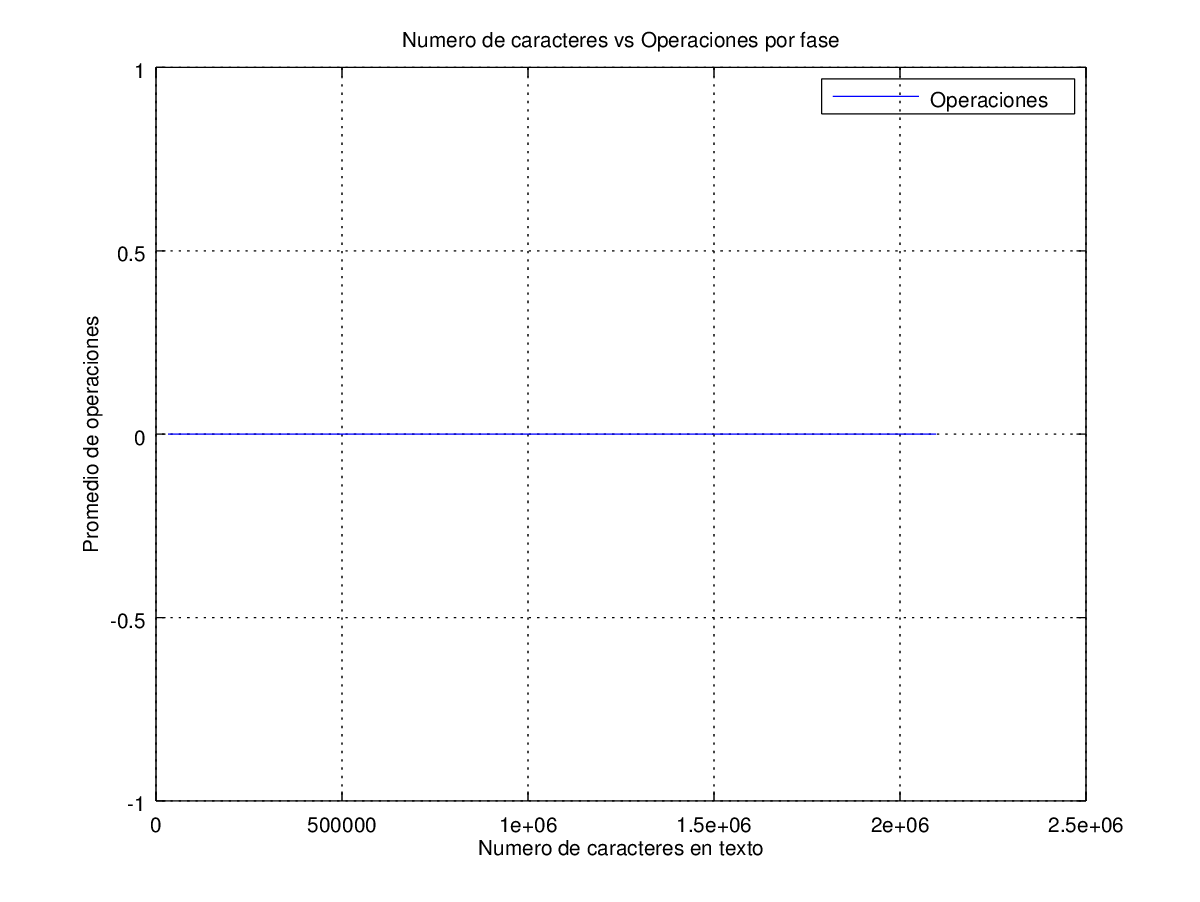
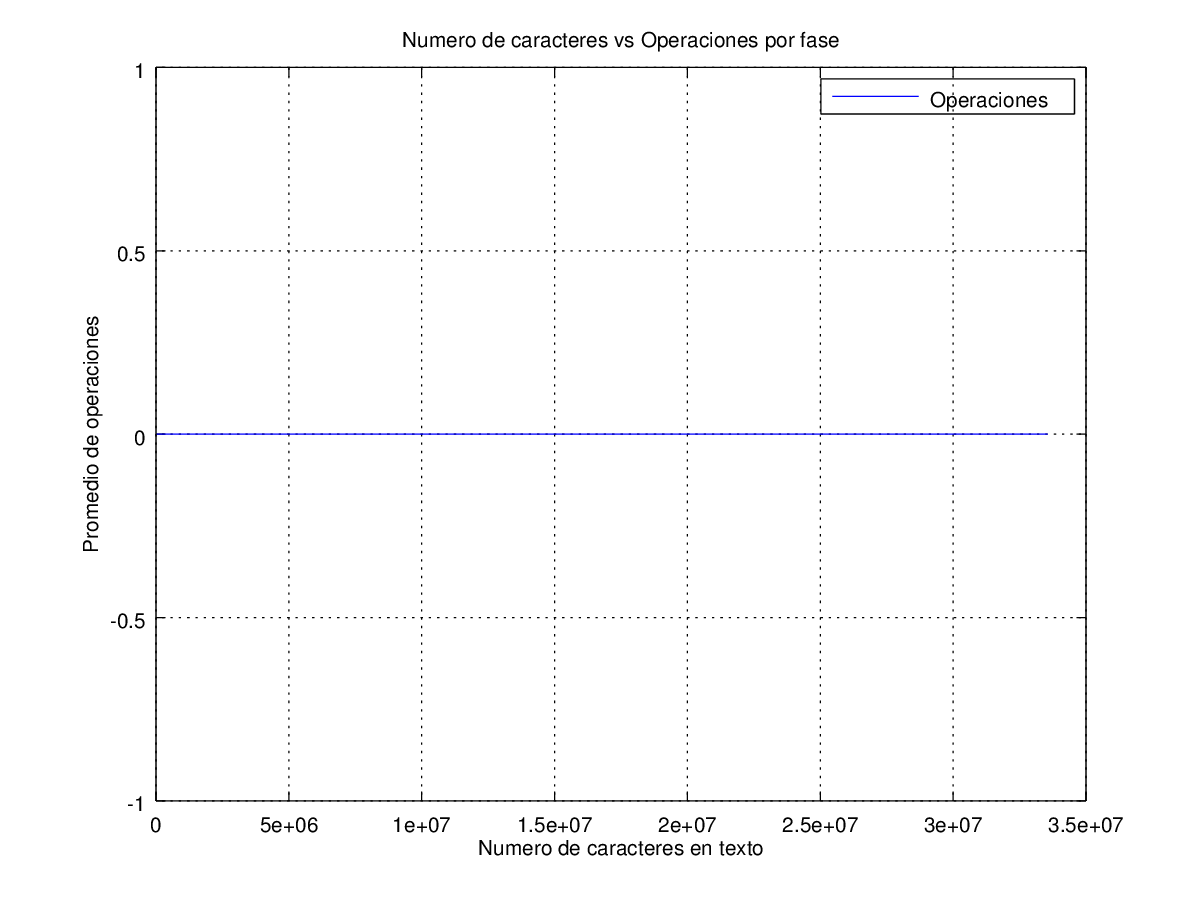
fix plots octave para acelerar informe

diff --git a/Informe/PlotsInforme.m b/Informe/PlotsInforme.m
@@ -1,7 +1,7 @@
 # Inicializador
 
 start = 15;
-finish = 21;
+finish = 25;
 for i = start : finish
   text_length(i - start + 1) = 2^i;
   word_search_number(i - start + 1) = 2^i / 10;
@@ -18,6 +18,10 @@ construction_time(4) = 19; # 18
 construction_time(5) = 20; # 19
 construction_time(6) = 28; # 20
 construction_time(7) = 34; # 21
+construction_time(8) = 34; # 22
+construction_time(9) = 34; # 23
+construction_time(10) = 34; # 24
+construction_time(11) = 34; # 25
 
 # Operaciones por fase
 
@@ -28,6 +32,10 @@ avg_ops_per_phase(4) = 0;
 avg_ops_per_phase(5) = 0;
 avg_ops_per_phase(6) = 0;
 avg_ops_per_phase(7) = 0;
+avg_ops_per_phase(8) = 0;
+avg_ops_per_phase(9) = 0;
+avg_ops_per_phase(10) = 0;
+avg_ops_per_phase(11) = 0;
 
 # Largo promedio patron
 
@@ -38,6 +46,10 @@ avg_pattern_length(4) = 4;
 avg_pattern_length(5) = 5;
 avg_pattern_length(6) = 6;
 avg_pattern_length(7) = 7;
+avg_pattern_length(8) = 7;
+avg_pattern_length(9) = 7;
+avg_pattern_length(10) = 7;
+avg_pattern_length(11) = 7;
 
 # Tiempos de busqueda (mseg)
 
@@ -48,6 +60,10 @@ search_time(4) = 0;
 search_time(5) = 0;
 search_time(6) = 0;
 search_time(7) = 0;
+search_time(8) = 0;
+search_time(9) = 0;
+search_time(10) = 0;
+search_time(11) = 0;
 
 # --- END DATA --- #
 
@@ -61,6 +77,7 @@ grid on;
 xlabel ("Numero de caracteres en texto (escala log)");
 ylabel ("Tiempo de construccion (mseg)");
 title ("Numero de caracteres vs Tiempo de construccion del Suffix Tree");
+print -dpng fig1.png;
 hold off;
 
 # Plot para tiempo de construccion
@@ -73,6 +90,7 @@ grid on;
 xlabel ("Numero de caracteres en texto");
 ylabel ("Promedio de operaciones");
 title ("Numero de caracteres vs Operaciones por fase");
+print -dpng fig2.png;
 hold off;
 
 # Plot para busqueda
@@ -86,4 +104,5 @@ grid on;
 xlabel ("Numero de palabras");
 ylabel ("Tiempo de busqueda (mseg)");
 title ("Numero de palabras vs Tiempo de busqueda");
+print -dpng fig3.png;
 hold off;

diff --git a/Informe/Informe-Tarea-2.tex b/Informe/Informe-Tarea-2.tex
@@ -174,6 +174,14 @@
 			\hline
 			$2^{21}$ & 34\\
 			\hline
+			$2^{22}$ & 34\\
+			\hline
+			$2^{23}$ & 34\\
+			\hline
+			$2^{24}$ & 34\\
+			\hline
+			$2^{25}$ & 34\\
+			\hline
 		\end{tabular}
 	\end{center}
 
@@ -210,6 +218,14 @@
 			\hline
 			$2^{21}$ & X & X\\
 			\hline
+			$2^{22}$ & X & X\\
+			\hline
+			$2^{23}$ & X & X\\
+			\hline
+			$2^{24}$ & X & X\\
+			\hline
+			$2^{25}$ & X & X\\
+			\hline
 		\end{tabular}
 	\end{center}
 
@@ -233,7 +249,7 @@
 
 	\subsection{Construcción del Suffix Tree}
 
-	Según 
+% 	// TODO: Tratar de explicar linealidad del algoritmo
 
 	\subsection{Búsqueda en el Suffix Tree}
 
@@ -242,5 +258,6 @@
 	\subsection{Conclusiones}
 
 % 	// TODO: Resumir lo ``aprendido'' (?)
+% 	// TODO: Si no nos salió, explicar que podríamos hacer para arreglarlo (si tuvieramos más tiempo)
 
 \end{document}
